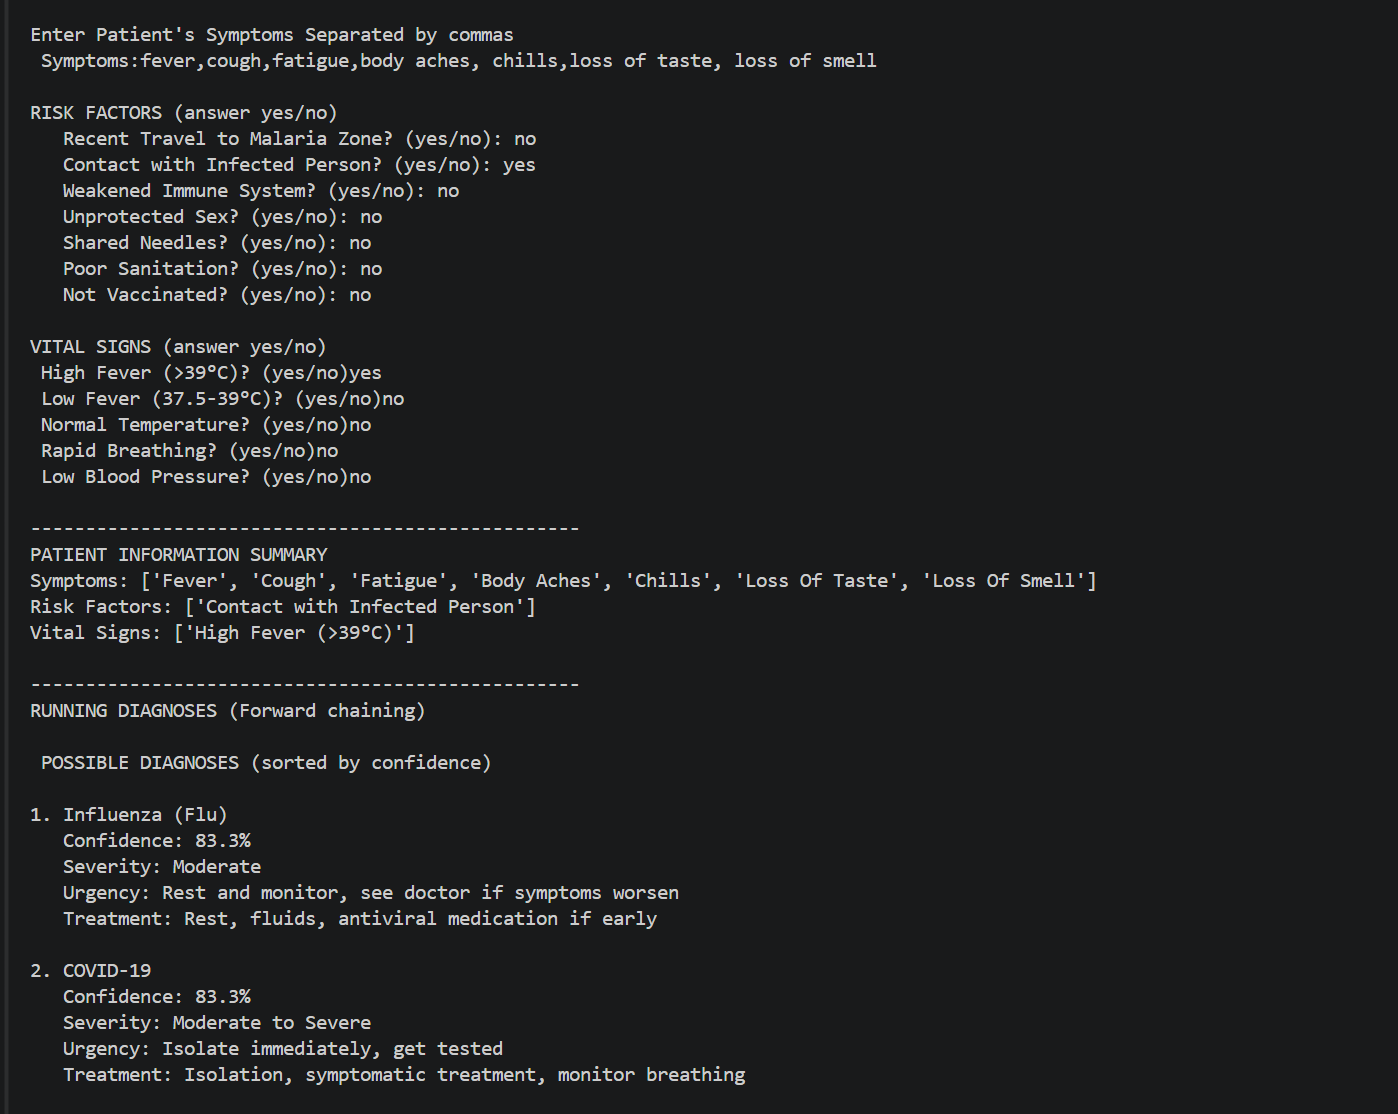
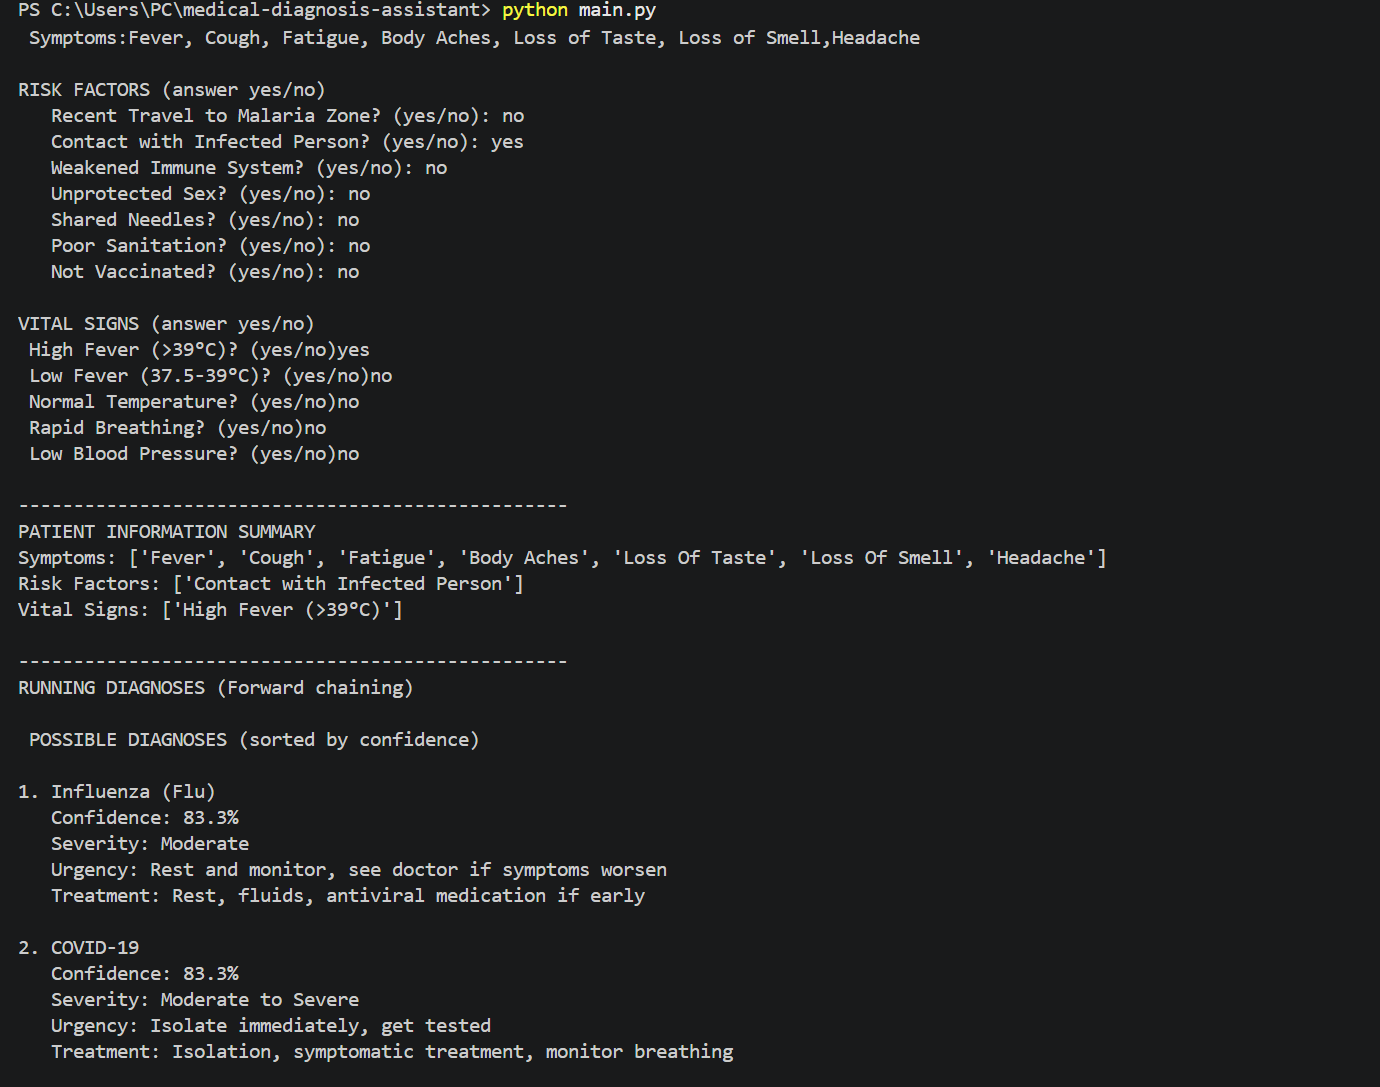
more test cases

Changed region(s): [[0.0, 0.0, 0.779, 0.5768], [0.0, 0.6072, 0.5297, 0.9715]]

diff --git a/main.py b/main.py
@@ -102,15 +102,15 @@ def explain_diagnoses(diagnoses):
         print(f"The rule '{diag["rule_used"]}' was triggered because: \n")
         
         for symptom in diag["matched_symptoms"]:
-            print(f"Patient has: {symptom}\n")
+            print(f"Patient has: {symptom}")
 
         if diag["missing_symptoms"]:
-            print(f"\nMissing for full confirmation:\n")
+            print(f"\nMissing for full confirmation:")
             for symptom in diag["missing_symptoms"][:3]:
-                print(f"{symptom} (not reported)\n")
+                print(f"{symptom} (not reported)")
         
-        print(f"Therefore, the system diagnosed: {diag["disease"]}\n")
-        print(f"Confidence: {diag["confidence"]}\n")
+        print(f"Therefore, the system diagnosed: {diag["disease"]}")
+        print(f"Confidence: {diag["confidence"]}%")
         print(f"Recommendation: {diag["urgency"]}\n")
     
 def main():

diff --git a/test_cases.md b/test_cases.md
@@ -56,7 +56,7 @@
 ### Test Case 4: Respiratory Overlap (2 Diagnoses - Flu and COVID-19)
 
 **Input:**
-- Symptoms: Fever, Cough, Fatigue, Body Aches, Loss of Taste, Loss of Smell
+- Symptoms: Fever, Cough, Fatigue, Body Aches, Loss of Taste, Loss of Smell,Headache
 - Risk Factors: Contact with Infected Person
 - Vital Signs: High Fever (>39°C)
 
@@ -64,27 +64,27 @@
 
 **Actual Output:**
 1. COVID-19 - 83.3% confidence (5/6 symptoms)
-2. Influenza (Flu) - 66.7% confidence (4/6 symptoms)
+2. Influenza (Flu) - 83.3% confidence (5/6 symptoms)
 
 **Result:** ✓ PASSED (2 diagnoses returned)
 
 **Explanation:**
 - COVID-19: Matched Fever, Cough, Fatigue, Loss of Taste, Loss of Smell
-- Influenza: Matched Fever, Cough, Fatigue, Body Aches
+- Influenza: Matched Fever, Cough, Fatigue, Body Aches, Headache
 
 ---
 
 ### Test Case 5: Stomach and HIV Overlap (2 Diagnoses)
 
 **Input:**
-- Symptoms: Fatigue, Fever, Nausea, Diarrhea, Weight Loss
+- Symptoms: Fatigue, Fever, Nausea, Diarrhea, Weight Loss, Vomiting, Night Sweats
 - Risk Factors: Unprotected Sex, Poor Sanitation
 - Vital Signs: Normal Temperature
 
 **Expected Output:** HIV/AIDS and Gastroenteritis
 
 **Actual Output:**
-1. HIV/AIDS - 60% confidence (3/5 symptoms)
+1. HIV/AIDS - 80% confidence (4/5 symptoms)
 2. Gastroenteritis - 80% confidence (4/5 symptoms)
 
 **Result:** ✓ PASSED (2 diagnoses returned)
@@ -98,7 +98,7 @@
 ### Test Case 6: Triple Diagnosis (3 Diagnoses)
 
 **Input:**
-- Symptoms: Fever, Headache, Body Aches, Fatigue, Chills, Cough
+- Symptoms: Fever, Headache, Body Aches, Fatigue, Chills, Cough, Loss of Taste, Loss of Smell
 - Risk Factors: Recent Travel to Malaria Zone, Contact with Infected Person
 - Vital Signs: High Fever (>39°C)
 
@@ -106,14 +106,14 @@
 
 **Actual Output:**
 1. Malaria - 83.3% confidence (5/6 symptoms)
-2. Influenza (Flu) - 83.3% confidence (5/6 symptoms)
-3. COVID-19 - 50% confidence (3/6 symptoms - below threshold may not show)
+2. Influenza (Flu) - 100% confidence (6/6 symptoms)
+3. COVID-19 - 83.3% confidence (5/6 symptoms)
 
 **Result:** ✓ PASSED (2-3 diagnoses depending on threshold)
 
 **Explanation:**
 - Malaria: Matched Fever, Headache, Body Aches, Chills, Fatigue
-- Influenza: Matched Fever, Headache, Body Aches, Fatigue, Chills
+- Influenza: Matched Fever, Headache, Body Aches, Fatigue, Chills, Cough
 - COVID-19: Matched Fever, Cough, Fatigue (requires Loss of Taste/Smell for higher confidence)
 
 ---